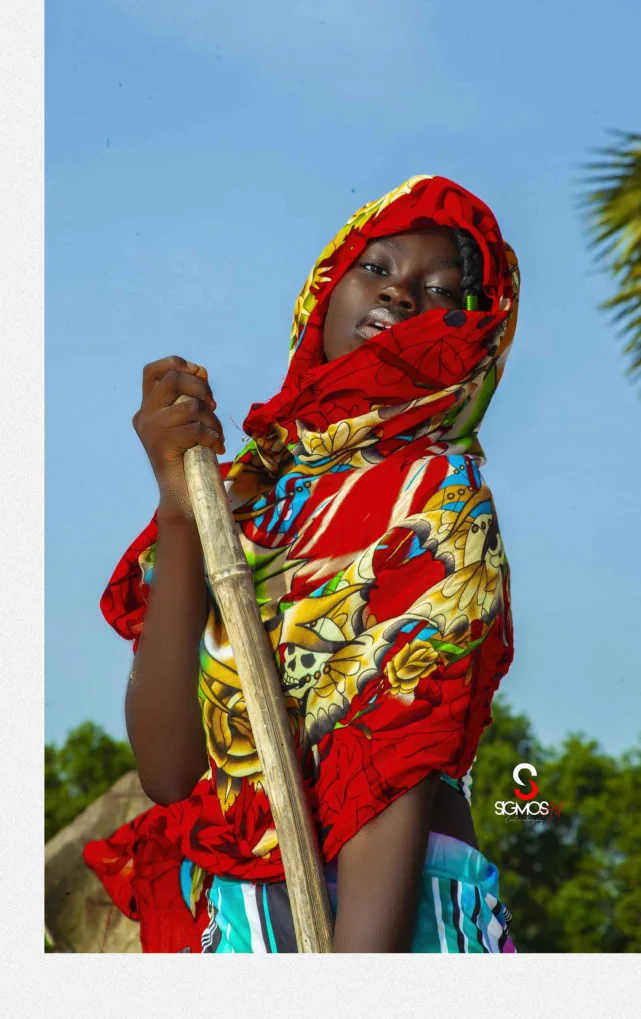
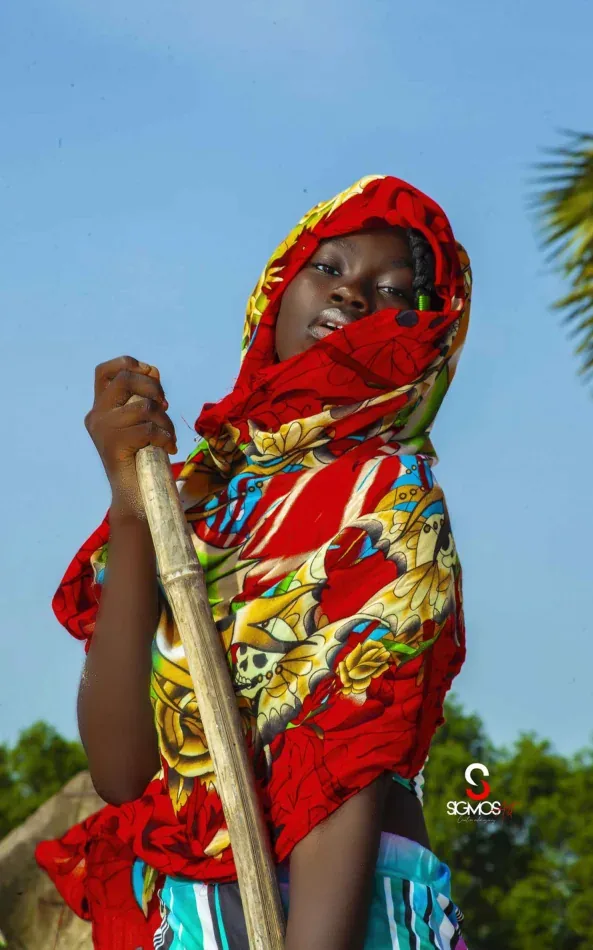
Corrige l'accueil, les filtres et ajoute une page 404
- Recadre la photo d'accueil (cadre blanc hérité du PDF) et corrige ses dimensions
- Filtres partageables via l'URL (#filtre=...) et liens « Domaines » vers le bon filtre
- Quinconce de la galerie recalculé sur les cartes visibles après filtrage
- Menu mobile fermé au clic extérieur
- Page 404, nettoyage de dist/ avant build, compteur de projets dynamique
- CI aussi sur main ; 3 tests navigateur supplémentaires

Claude-Session: https://claude.ai/code/session_01W1JrkukSWCFf5km7ENAW5p

diff --git a/assets/style.css b/assets/style.css
@@ -7,7 +7,7 @@
 .about-intro{padding-bottom:48px}.about-main{display:grid;gap:60px;padding-bottom:90px}.about-portrait{background:#f9f9f8;align-self:start}.about-portrait img{width:100%;height:480px;object-fit:cover;object-position:center top}.about-portrait span{display:block;padding:14px;font-size:.65rem;font-weight:800;letter-spacing:.1em;text-transform:uppercase}.about-copy h2{font-size:clamp(2.9rem,7vw,5.5rem);line-height:1;letter-spacing:-.08em;margin:24px 0 36px}.about-copy h2 em{color:#c15124}.about-copy>p:not(.kicker){max-width:560px;line-height:1.65;font-size:1.02rem;color:#4d4d47}.about-copy .button{margin-top:26px}.about-skills{border-top:1px solid var(--line)}.skills-columns{display:grid;gap:40px;margin-top:44px}.skills-columns h3{text-transform:uppercase;font-size:.75rem;letter-spacing:.08em;color:#a64c26}.skills-columns ul{padding:0;list-style:none}.skills-columns li{border-bottom:1px solid var(--line);padding:18px 0;font-size:1.05rem;font-weight:700}.contact-page{min-height:70vh;padding-top:86px;padding-bottom:120px}.contact-page>p:not(.kicker){font-size:1.12rem;line-height:1.5;color:var(--muted);max-width:560px}.contact-mail{display:flex;justify-content:space-between;align-items:center;gap:12px;border-bottom:2px solid var(--coal);font-size:clamp(1.15rem,5.7vw,4rem);font-weight:900;letter-spacing:-.05em;overflow-wrap:anywhere;margin:65px 0 78px;padding-bottom:18px;transition:color .2s ease}.contact-mail:hover{color:#bb5129}.contact-mail span{flex:none}.contact-note{display:flex;flex-wrap:wrap;gap:12px}.contact-note span{font-size:.72rem;padding:12px;border:1px solid var(--line);font-weight:800;text-transform:uppercase}
 .footer{background:var(--coal);color:var(--paper);padding-top:75px}.footer-top p{font-size:clamp(1.9rem,5.8vw,5.5rem);font-weight:900;line-height:1.1;letter-spacing:-.065em;margin:0 0 90px}.footer-top a span{color:var(--orange)}.footer-top a:hover{text-decoration:underline;text-decoration-color:var(--orange)}.footer-bottom{border-top:1px solid #58564d;padding:25px 0 35px;display:flex;flex-direction:column;gap:12px;font-size:.67rem;text-transform:uppercase;letter-spacing:.08em;font-weight:700;color:#aaa79f}.footer-bottom a{color:#fff}
 @media(min-width:700px){.nav-shell{min-height:85px}.nav{top:85px}.hero{grid-template-columns:1.08fr .92fr;min-height:680px;gap:22px;padding-bottom:0}.hero-copy{padding-top:100px;padding-bottom:40px}.hero-actions{flex-direction:row;align-items:center;margin-top:40px}.hero-bottom span:last-child{display:block}.hero-visual{height:auto;min-height:600px;margin:0;justify-content:flex-end}.hero-photo{max-width:none;width:88%;height:100%;max-height:760px}.hero-stamp{right:calc(88% - 74px);bottom:50px}.vertical-caption{display:block;position:absolute;right:-13px;bottom:30px;writing-mode:vertical-rl;font-size:.58rem;letter-spacing:.1em}.section{padding-block:110px}.section-heading .text-link{display:inline-flex}.project-grid{grid-template-columns:repeat(2,minmax(0,1fr));gap:65px 26px}.project-grid .featured{grid-column:span 2}.project-grid .featured .project-image{aspect-ratio:1.9}.mobile-more{display:none}.manifesto{padding-block:105px}.manifesto-grid{grid-template-columns:1fr 3fr}.page-intro{padding-top:100px;padding-bottom:80px}.case-details{grid-template-columns:2fr 1fr}.case-details dl{gap:25px}.about-main{grid-template-columns:1fr 1fr;gap:8vw}.about-portrait img{height:700px}.about-copy{padding-top:30px}.skills-columns{grid-template-columns:1fr 1fr;gap:9vw}.footer-bottom{flex-direction:row;justify-content:space-between}}
-@media(min-width:1050px){.menu-toggle{display:none}.nav{position:static;background:transparent;padding:0;display:flex;align-items:center;gap:32px;box-shadow:none}.nav a{min-height:44px;border:0;font-size:.72rem;text-transform:uppercase;letter-spacing:.07em}.nav a:hover{color:var(--orange)}.header-cta{display:inline-block}.hero{min-height:760px;gap:35px}.hero-copy{padding-top:145px}.hero h1{font-size:clamp(5rem,7.5vw,8.5rem)}.hero-visual{min-height:760px}.hero-photo{width:80%}.hero-stamp{right:calc(80% - 80px);width:160px;height:160px}.project-grid{grid-template-columns:repeat(2,minmax(0,1fr));gap:72px 42px}.project-grid .featured{grid-column:auto}.project-grid .featured .project-image{aspect-ratio:1.35}.project-card:nth-child(even){transform:translateY(70px)}.project-grid{padding-bottom:70px}.gallery-grid .project-card:nth-child(even){transform:translateY(55px)}.discipline-list a{grid-template-columns:50px 1fr 40px;min-height:110px}}
+@media(min-width:1050px){.menu-toggle{display:none}.nav{position:static;background:transparent;padding:0;display:flex;align-items:center;gap:32px;box-shadow:none}.nav a{min-height:44px;border:0;font-size:.72rem;text-transform:uppercase;letter-spacing:.07em}.nav a:hover{color:var(--orange)}.header-cta{display:inline-block}.hero{min-height:760px;gap:35px}.hero-copy{padding-top:145px}.hero h1{font-size:clamp(5rem,7.5vw,8.5rem)}.hero-visual{min-height:760px}.hero-photo{width:80%}.hero-stamp{right:calc(80% - 80px);width:160px;height:160px}.project-grid{grid-template-columns:repeat(2,minmax(0,1fr));gap:72px 42px}.project-grid .featured{grid-column:auto}.project-grid .featured .project-image{aspect-ratio:1.35}.project-grid:not(.gallery-grid) .project-card:nth-child(even){transform:translateY(70px)}.project-grid{padding-bottom:70px}.gallery-grid .project-card.is-offset{transform:translateY(55px)}.discipline-list a{grid-template-columns:50px 1fr 40px;min-height:110px}}
 @media(max-width:1049px){
   .nav-shell{flex-wrap:wrap}
   .menu-toggle{display:none}

diff --git a/assets/app.js b/assets/app.js
@@ -17,6 +17,9 @@
     nav.addEventListener('click', event => {
       if (event.target.closest('a')) close();
     });
+    document.addEventListener('click', event => {
+      if (nav.classList.contains('open') && !nav.contains(event.target) && !menu.contains(event.target)) close();
+    });
     document.addEventListener('keydown', event => {
       if (event.key === 'Escape' && menu.getAttribute('aria-expanded') === 'true') {
         close();
@@ -28,19 +31,34 @@
   const buttons = [...document.querySelectorAll('[data-filter]')];
   const cards = [...document.querySelectorAll('.gallery-grid .project-card')];
   const count = document.querySelector('.result-count');
+  const empty = document.querySelector('.empty');
   if (buttons.length && cards.length && count) {
-    buttons.forEach(button => button.addEventListener('click', () => {
-      const selected = button.dataset.filter;
+    const apply = (selected, updateUrl) => {
+      const button = buttons.find(item => item.dataset.filter === selected) || buttons[0];
+      selected = button.dataset.filter;
       buttons.forEach(item => item.setAttribute('aria-pressed', String(item === button)));
       let visible = 0;
       cards.forEach(card => {
         card.hidden = selected !== 'Tous' && card.dataset.category !== selected;
-        if (!card.hidden) visible++;
+        // Décalage en quinconce calculé sur les cartes visibles, pas sur l'ordre du DOM.
+        card.classList.toggle('is-offset', !card.hidden && visible++ % 2 === 1);
       });
       count.textContent = visible + (visible === 1 ? ' projet' : ' projets');
-      const empty = document.querySelector('.empty');
       if (empty) empty.hidden = visible !== 0;
-    }));
+      if (updateUrl) {
+        const hash = selected === 'Tous' ? '' : '#filtre=' + encodeURIComponent(selected);
+        history.replaceState(null, '', location.pathname + location.search + hash);
+      }
+    };
+    const fromHash = () => {
+      const match = location.hash.match(/^#filtre=(.+)$/);
+      let value = 'Tous';
+      if (match) { try { value = decodeURIComponent(match[1]); } catch (_) { /* hash invalide */ } }
+      apply(value, false);
+    };
+    buttons.forEach(button => button.addEventListener('click', () => apply(button.dataset.filter, true)));
+    window.addEventListener('hashchange', fromHash);
+    fromHash();
   }
   document.documentElement.classList.add('js-ready');
 })();

diff --git a/scripts/build.py b/scripts/build.py
@@ -114,32 +114,32 @@ def home() -> str:
 <p class="hero-intro">Je suis Clive Gouala. Je donne forme aux identités, aux images et aux histoires qui méritent d'être vues.</p>
 <div class="hero-actions"><a class="button button-primary" href="/projets.html">Explorer mon travail <span aria-hidden="true">↗</span></a><a class="text-link" href="/a-propos.html">Faire connaissance <span aria-hidden="true">↗</span></a></div>
 <div class="hero-bottom"><span>Réalisateur vidéo<br>Designer graphique<br>Photographe</span><span>Défiler pour explorer ↓</span></div></div>
-<div class="hero-visual"><div class="hero-photo"><img src="/assets/media/hero-photo.webp" width="640" height="1020" alt="Photographie éditoriale de la série plage figurant dans le portfolio de Clive Gouala" fetchpriority="high"></div>
+<div class="hero-visual"><div class="hero-photo"><img src="/assets/media/hero-photo.webp" width="593" height="950" alt="Photographie éditoriale de la série plage figurant dans le portfolio de Clive Gouala" fetchpriority="high"></div>
 <div class="hero-stamp" aria-hidden="true"><span>CREATIVE<br>VISION</span><b>CG.</b></div><span class="vertical-caption">L'IMAGE A QUELQUE CHOSE À RACONTER · 2026</span></div></section>
-<div class="marquee" aria-label="Domaines de création"><div class="shell">{categories}</div></div>
+<div class="marquee" role="group" aria-label="Domaines de création"><div class="shell">{categories}</div></div>
 <section class="section shell" aria-labelledby="work-title"><div class="section-heading"><div><p class="kicker">01 / Sélection</p><h2 id="work-title">Projets <em>choisis.</em></h2></div><a class="text-link dark" href="/projets.html">Tout voir <span aria-hidden="true">↗</span></a></div>
 <div class="project-grid">{work}</div><a class="mobile-more" href="/projets.html">Voir tous les projets ↗</a></section>
 <section class="manifesto"><div class="shell manifesto-grid"><p class="kicker">02 / La démarche</p><div><p>Une belle image attire le regard.<br><em>Une intention claire</em> lui donne du sens.</p>
 <a class="button button-outline" href="/a-propos.html">Découvrir mon parcours ↗</a></div></div></section>
 <section class="section shell discipline"><p class="kicker">03 / Domaines</p><h2>Des idées au <em>rendu final.</em></h2>
-<div class="discipline-list"><a href="/projets.html#galerie">01 <strong>Identité & branding</strong><span>↗</span></a><a href="/projets.html#galerie">02 <strong>Design graphique & print</strong><span>↗</span></a><a href="/projets.html#galerie">03 <strong>Photographie & vidéo</strong><span>↗</span></a></div></section>'''
+<div class="discipline-list"><a href="/projets.html#filtre=Identit%C3%A9">01 <strong>Identité &amp; branding</strong><span>↗</span></a><a href="/projets.html#filtre=%C3%89dition">02 <strong>Design graphique &amp; print</strong><span>↗</span></a><a href="/projets.html#filtre=Photographie">03 <strong>Photographie &amp; vidéo</strong><span>↗</span></a></div></section>'''
     return layout('Accueil', 'Clive Gouala : vidéo, design graphique, photographie. Découvrez une sélection de réalisations.', 'index.html', body)
 
 
 def projects_page() -> str:
     filters = ''.join(f'<button type="button" data-filter="{e(c)}" aria-pressed="{str(c == "Tous").lower()}">{e(c)}</button>' for c in CATEGORIES)
     cards = ''.join(card(p, i + 1) for i, p in enumerate(PROJECTS))
-    body = f'''<section class="page-intro shell"><p class="kicker">Index / 01—11</p><h1>Un travail à <em>explorer.</em></h1>
+    body = f'''<section class="page-intro shell"><p class="kicker">Index / 01-{len(PROJECTS):02d}</p><h1>Un travail à <em>explorer.</em></h1>
 <p>Identités, images, éditions et expériences visuelles. Parcourez les projets présentés dans mon book.</p></section>
 <section class="section shell gallery-section" id="galerie" aria-label="Galerie de projets"><div class="filters" role="group" aria-label="Filtrer les projets">{filters}</div>
-<p class="result-count" aria-live="polite">11 projets</p><div class="project-grid gallery-grid">{cards}</div><p class="empty" hidden>Aucun projet dans cette catégorie.</p></section>'''
+<p class="result-count" aria-live="polite">{len(PROJECTS)} projets</p><div class="project-grid gallery-grid">{cards}</div><p class="empty" hidden>Aucun projet dans cette catégorie.</p></section>'''
     return layout('Projets', 'Parcourez les réalisations de Clive Gouala : logos, identité, packaging, photographie et édition.', 'projets.html', body)
 
 
 def project_page(p: dict, index: int) -> str:
     prev = PROJECTS[(index - 1) % len(PROJECTS)]
     nxt = PROJECTS[(index + 1) % len(PROJECTS)]
-    images = ''.join(f'<figure class="case-figure"><a href="/assets/media/folio-{n:02d}.webp" target="_blank" rel="noopener" aria-label="Agrandir la planche {i + 1} de {e(p["title"])}">{picture(n, f"Planche {i + 1} du projet {p["title"]}")}</a><figcaption>Planche {i + 1:02d} / {e(p["title"])} · toucher pour agrandir</figcaption></figure>' for i, n in enumerate(p['images']))
+    images = ''.join(f'<figure class="case-figure"><a href="/assets/media/folio-{n:02d}.webp" target="_blank" rel="noopener" aria-label="Agrandir la planche {i + 1} de {e(p["title"])}">{picture(n, f"Planche {i + 1} du projet {p["title"]}")}</a><figcaption>Planche {i + 1:02d} / {e(p["title"])} · ouvrir en grand</figcaption></figure>' for i, n in enumerate(p['images']))
     body = f'''<div class="case-head shell"><a class="back-link" href="/projets.html">← Tous les projets</a><p class="kicker">{e(p['category'])} / Projet {index + 1:02d}</p>
 <h1>{e(p['title'])}<span class="orange-dot">.</span></h1><div class="case-details"><p>{e(p['intro'])}</p><dl><div><dt>Discipline</dt><dd>{e(p['category'])}</dd></div><div><dt>Présenté dans le book</dt><dd>{e(p['scope'])}</dd></div></dl></div></div>
 <div class="case-media shell">{images}</div><nav class="case-pagination shell" aria-label="Projets adjacents"><a href="/projets/{e(prev['slug'])}.html"><small>← Projet précédent</small><strong>{e(prev['title'])}</strong></a><a href="/projets/{e(nxt['slug'])}.html"><small>Projet suivant →</small><strong>{e(nxt['title'])}</strong></a></nav>'''
@@ -168,13 +168,21 @@ def contact() -> str:
     return layout('Contact', 'Contactez Clive Gouala pour un projet de design, photographie ou réalisation vidéo.', 'contact.html', body)
 
 
+def not_found() -> str:
+    body = '''<section class="contact-page shell"><p class="kicker">Erreur 404</p><h1>Page<br><em>introuvable.</em></h1>
+<p>Cette page n'existe pas ou a été déplacée.</p>
+<a class="button button-primary" href="/projets.html">Voir les projets ↗</a></section>'''
+    return layout('Page introuvable', 'Cette page est introuvable.', '', body)
+
+
 def build_site(destination: Path) -> None:
     destination = Path(destination)
     destination.mkdir(parents=True, exist_ok=True)
     assets = destination / 'assets'
     shutil.copytree(ROOT / 'assets', assets, dirs_exist_ok=True)
     for filename, content in [('index.html', home()), ('projets.html', projects_page()),
-                              ('a-propos.html', about()), ('contact.html', contact())]:
+                              ('a-propos.html', about()), ('contact.html', contact()),
+                              ('404.html', not_found())]:
         (destination / filename).write_text(content, encoding='utf-8')
     project_dir = destination / 'projets'
     project_dir.mkdir(exist_ok=True)
@@ -183,5 +191,6 @@ def build_site(destination: Path) -> None:
 
 
 if __name__ == '__main__':
+    shutil.rmtree(ROOT / 'dist', ignore_errors=True)  # évite de publier des pages obsolètes
     build_site(ROOT / 'dist')
     print('Site prêt dans dist/')

diff --git a/tests/test_interactions.py b/tests/test_interactions.py
@@ -83,6 +83,35 @@ class InteractionTests(unittest.TestCase):
         self.assertEqual(page.locator('.gallery-grid .project-card:visible').count(), 11)
         page.close()
 
+    def test_filter_can_be_opened_from_url_and_updates_it(self):
+        page = self.browser.new_page(viewport={'width': 1440, 'height': 900})
+        page.goto(self.base + '/projets.html#filtre=Identit%C3%A9')
+        self.assertEqual(page.get_by_role('button', name='Identité').get_attribute('aria-pressed'), 'true')
+        self.assertEqual(page.locator('.result-count').text_content(), '2 projets')
+        page.get_by_role('button', name='Logos').click()
+        self.assertIn('#filtre=Logos', page.url)
+        page.get_by_role('button', name='Tous').click()
+        self.assertNotIn('#filtre', page.url)
+        page.close()
+
+    def test_stagger_follows_visible_cards_after_filtering(self):
+        page = self.browser.new_page(viewport={'width': 1440, 'height': 900})
+        page.goto(self.base + '/projets.html')
+        page.get_by_role('button', name='Social media').click()
+        offsets = page.locator('.gallery-grid .project-card:visible').evaluate_all(
+            '(cards) => cards.map(c => c.classList.contains("is-offset"))')
+        self.assertEqual(offsets, [False, True])
+        page.close()
+
+    def test_mobile_menu_closes_on_outside_click(self):
+        page = self.browser.new_page(viewport={'width': 375, 'height': 812})
+        page.goto(self.base + '/index.html')
+        menu = page.locator('.menu-toggle')
+        menu.click()
+        page.mouse.click(180, 700)
+        self.assertEqual(menu.get_attribute('aria-expanded'), 'false')
+        page.close()
+
 
 if __name__ == '__main__':
     unittest.main()

diff --git a/tests/test_site.py b/tests/test_site.py
@@ -12,7 +12,7 @@ class PortfolioSiteTests(unittest.TestCase):
             out = Path(tmp)
             build_site(out)
             for page in ("index.html", "projets.html", "a-propos.html", "contact.html",
-                         "projets/interim-industries.html", "projets/les-delices-de-md.html"):
+                         "404.html", "projets/interim-industries.html", "projets/les-delices-de-md.html"):
                 self.assertTrue((out / page).exists(), page)
             home = (out / "index.html").read_text(encoding="utf-8")
             self.assertIn("Clive Gouala", home)
